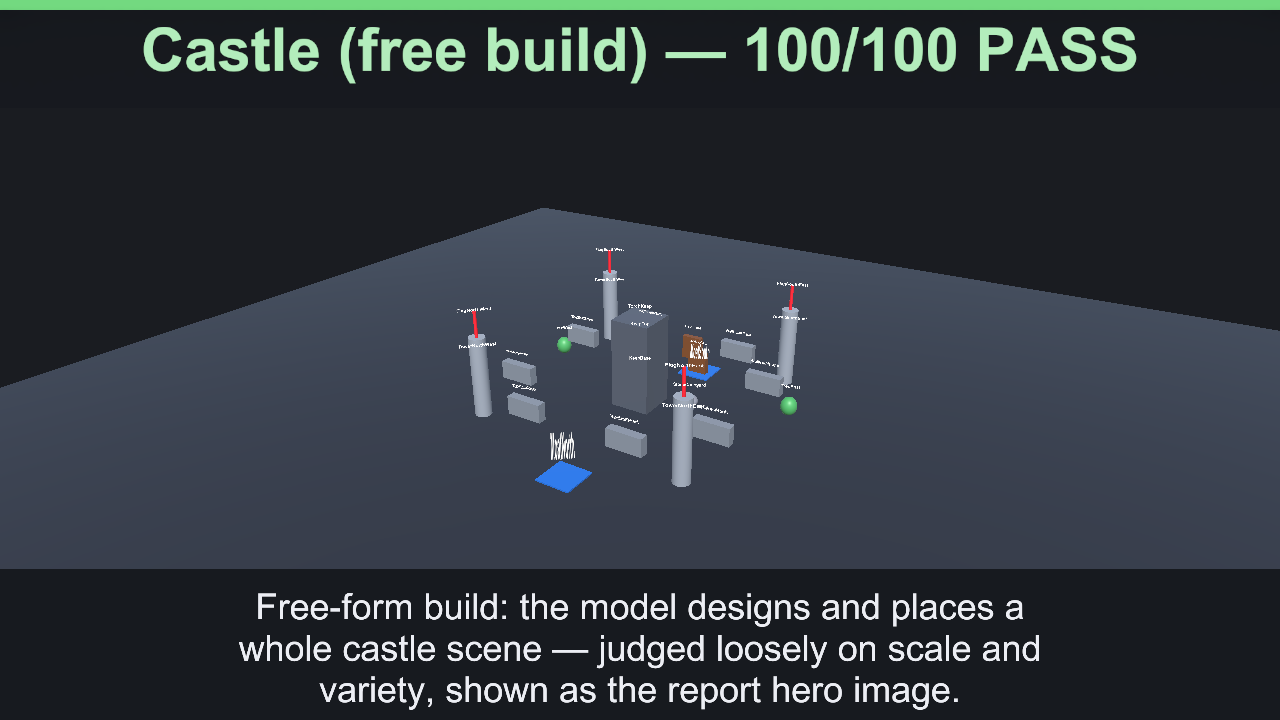
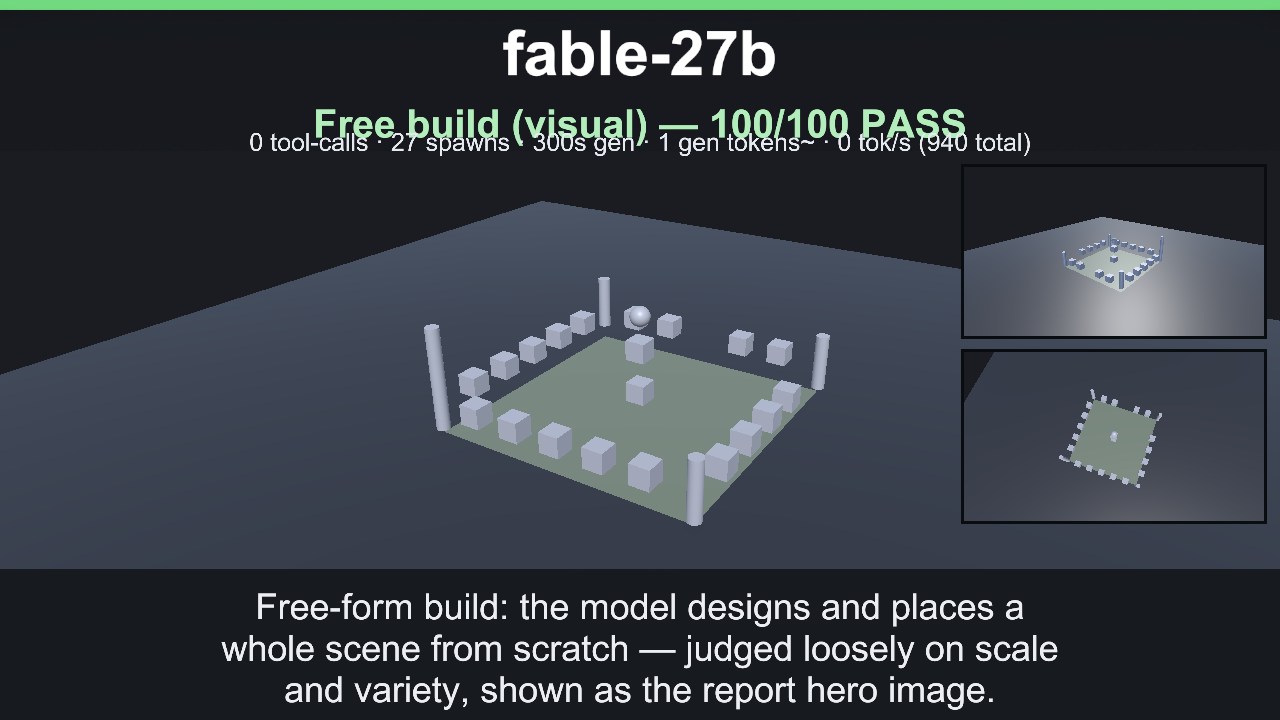
docs(benchmark): refresh castle gallery + document Empty-response root cause
Replace the qwythos-9b / ornith-9b / fable-27b castle gallery images (and
the BENCHMARK.md hero) with fresh G6 free-build runs captured with
reasoning enabled and the grade-on-stop harness fix — each now carries a
model-name header and provenance stat line.

SESSION_WORK_AUDIT.md: replace the stale "blocked by LM Studio config"
note with the real diagnosis — the runaway one-call-per-turn build with
unbounded tool-call history (saw 500+ messages / ~37k tokens) plus
reasoning having been disabled (reasoningMode Disabled) — and the two
resilience fixes. BENCHMARK.md: note the free-build now always yields a
hero image because it grades what was built on stop/timeout.

diff --git a/Docs/SESSION_WORK_AUDIT.md b/Docs/SESSION_WORK_AUDIT.md
@@ -70,13 +70,44 @@ These were found by actually running the suite and reading transcripts, not by i
   verified intact). See `DEMO_FOLDER_STRUCTURE_AUDIT.md`.
 - The FullAccess demo now also showcases `unity_list_members` + member coercion.
 
-## Known blocker (not a code issue)
+## G6 castle "Empty response from LLM" — root cause and fix (resolved)
 
-The 7-model G6 castle re-sweep is **blocked by an LM Studio model-config issue**, not by the benchmark
-code: on the current load of `qwen3.5-4b-mtp`, the model reasons (in its think block) that it "has no
-tool-execution capability" and emits zero tool calls, hitting the token limit on reasoning. A prior load
-of the same model built a 111-tool castle fine, so this is a load/template configuration to resolve on the
-LM Studio side. The benchmark harness itself is verified working (EditMode + PlayMode green).
+The G6 castle runs were failing with `Empty response from LLM`. Diagnosed live (LM Studio server logs +
+direct `curl`), the cause was **not** the model or the prompt:
+
+- The model is healthy — via the raw OpenAI-compatible API it emits up to 30 tool calls in one
+  non-streaming response, fast. The HTTP request the code builds is equivalent to a known-good `curl`.
+- The free-build runs as ~one tool-call per orchestrator turn with **unbounded** tool-call history
+  (`maxToolCallHistoryMessages = 0`). A weak model never decides it is "done", so the conversation runs
+  away — observed live growing to **500+ messages / ~37k tokens**. Eventually one turn returns empty (no
+  tool call, no visible text), surfaced as `LlmErrorCode.EmptyResponse` at `MeaiLlmClient.cs:271`. The
+  earlier "244 s timeout" was the same runaway hitting `requestTimeoutSeconds: 240` on a giant prefill.
+- **Reasoning was disabled.** `LlmReasoningMode` = ProviderDefault(0) / Disabled(1) / Enabled(2); the
+  settings asset had `reasoningMode: 1` (Disabled → `enable_thinking:false`). Set to Enabled.
+
+**Fixes (both in `GameCreationBenchmarkHarness.cs`, `dotnet build` green):**
+
+1. **Grade-on-empty.** A mid-build empty response *after a scene already exists*
+   (`env.World.Count("spawn") >= 1 || capture.ToolCalls >= 1`) is treated as a clean STOP — grade and
+   screenshot what was built, no Environment failure, no retry (helper `IsEmptyResponseError`).
+2. **Grade-on-cancel/timeout.** Same clean-stop for an `OperationCanceledException` / timeout
+   (`"A task was canceled."`) once a scene exists, so a heavy model that hits the per-scenario time budget
+   keeps its castle instead of being retried-from-scratch (helper `IsCancellationError`). The grading
+   itself was deliberately left unchanged (free visual test, no restrictions).
+
+**Validated live (G6, reasoning on):** `qwythos-9b` → Pass, 37 objects; `deepreinforce-ai_ornith-1.0-9b`
+→ Pass, 65 objects; `qwen3.6-27b-fable-5-experimental` → Pass, 27 objects (clean walled perimeter). All
+`failure=''`, 0 failed/invalid tool calls; fresh hero screenshots saved to `Docs/Images/castles/`. The
+weak `qwen3.5-2b` no longer fails but false-passes via duplicate-spam (273 spawn *commands* ≈ 2 distinct
+objects) — expected for a free build that counts commands, not distinct objects.
+
+## Follow-ups (tracked, not blocking)
+
+- Make the benchmark's manually-built orchestrator turn-trace visible in the Agent Session Inspector
+  (today it only resolves a trace reader from a scene DI scope).
+- The free-build capture reports `toolCalls=0` when a run ends via the empty/timeout clean-stop path (the
+  inner tool loop's calls aren't surfaced to `capture`); the spawn count from `env.World` is correct and
+  is what grading uses. Cosmetic only.
 
 ## Follow-ups (tracked, not blocking)
 

diff --git a/Docs/BENCHMARK.md b/Docs/BENCHMARK.md
@@ -163,6 +163,11 @@ _G1 scene example: the model built the coin-collector world and the report marks
 
 _G6 scene example: a free-form castle build preserving the model-authored layout._
 
+> The free-build is resilient by design: when the model stops on its own (an empty response) or the
+> per-scenario time budget elapses *after a scene already exists*, the harness grades and screenshots
+> what was built instead of failing the run. This is why a long, unbounded build always yields a hero
+> image even on small local models. See `SESSION_WORK_AUDIT.md` for the root-cause write-up.
+
 ![Cross-model comparison](Images/example_comparison.png)
 
 _Comparison chart: suite base scores across the newest JSON report for each selected model._
